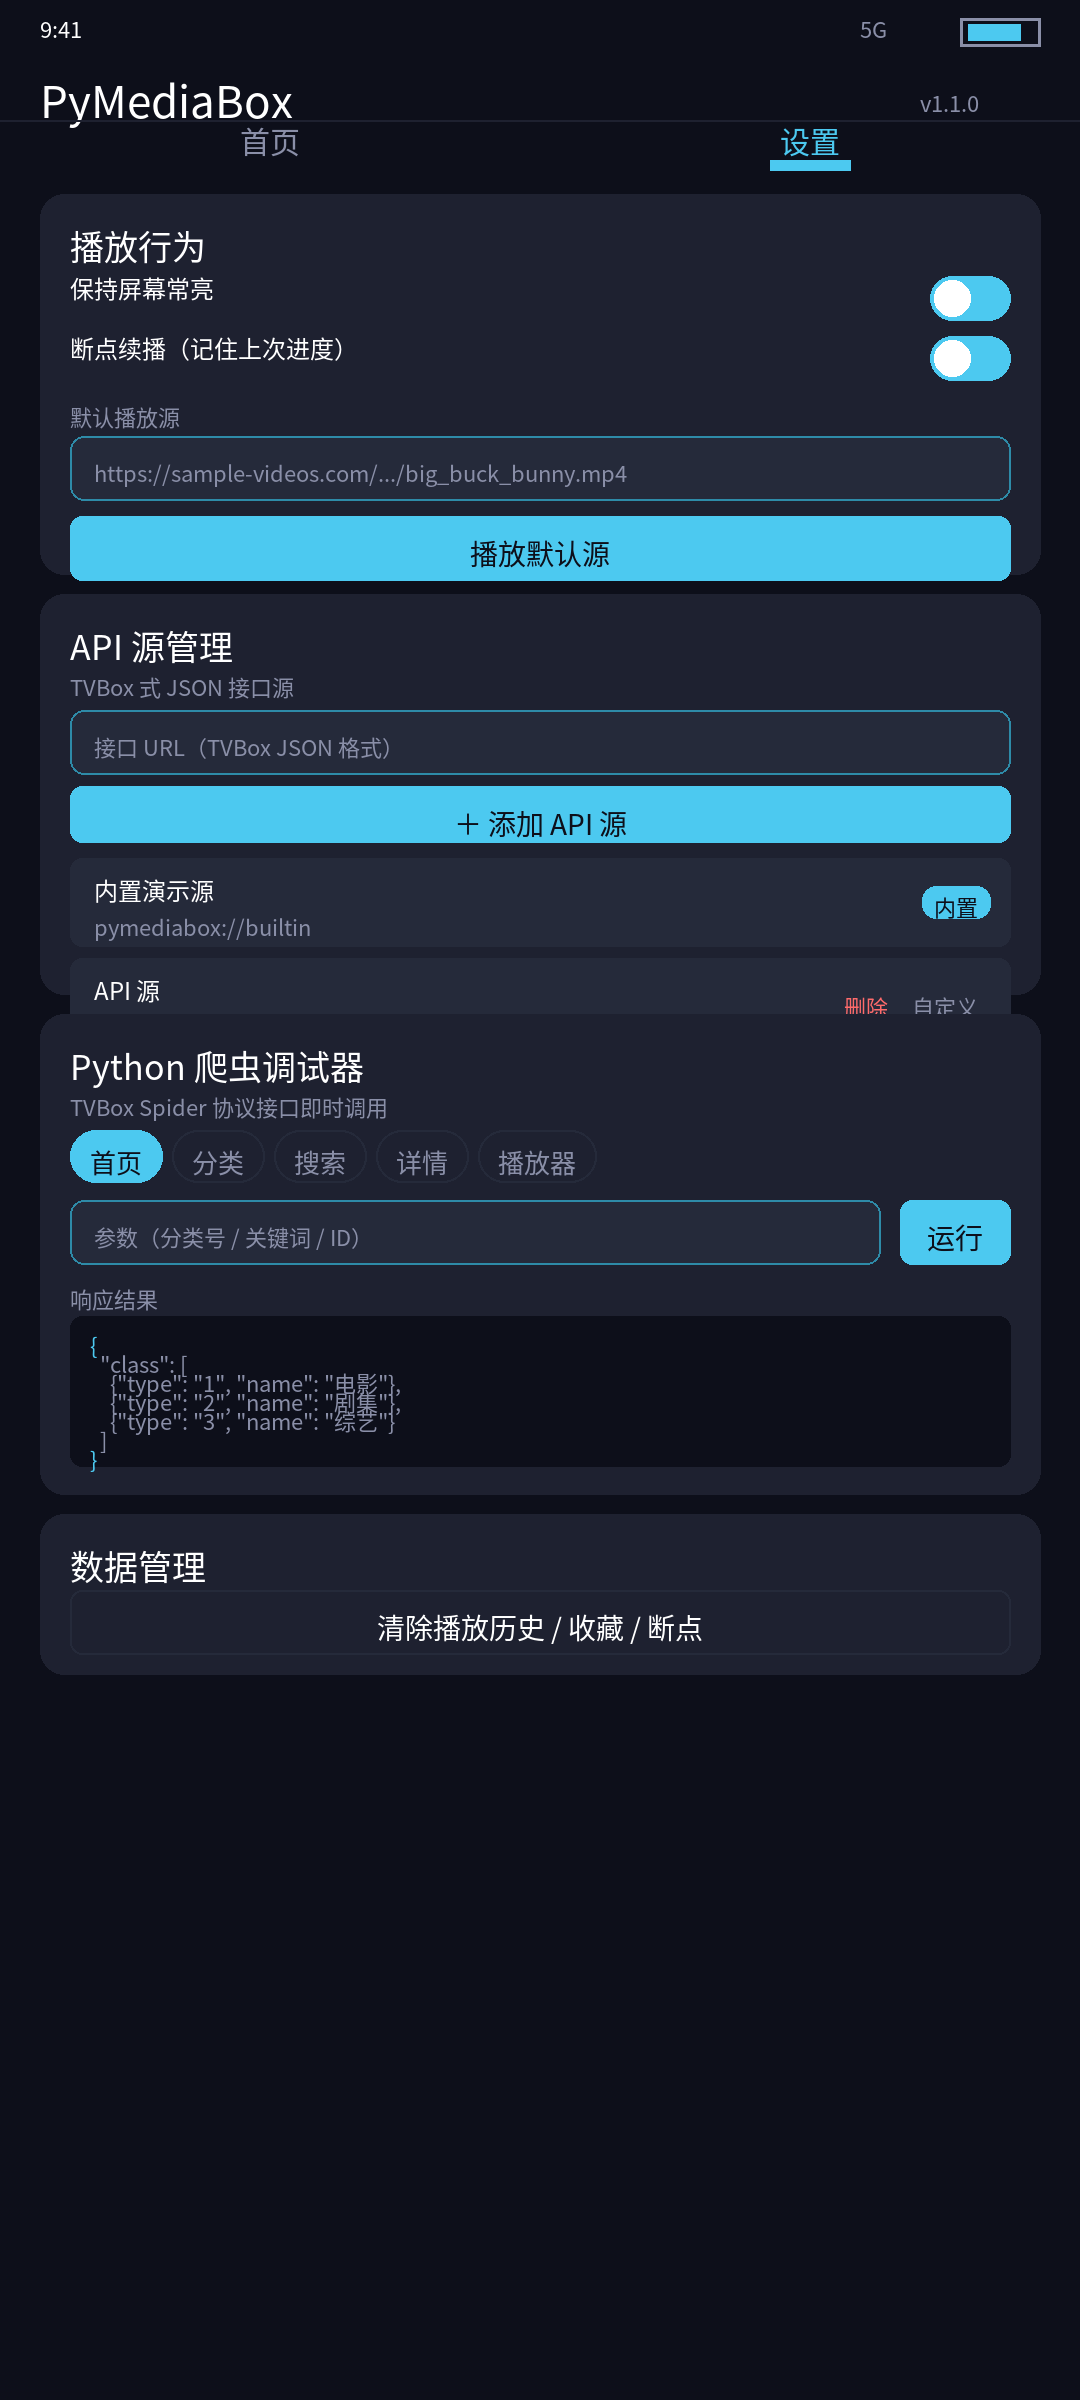
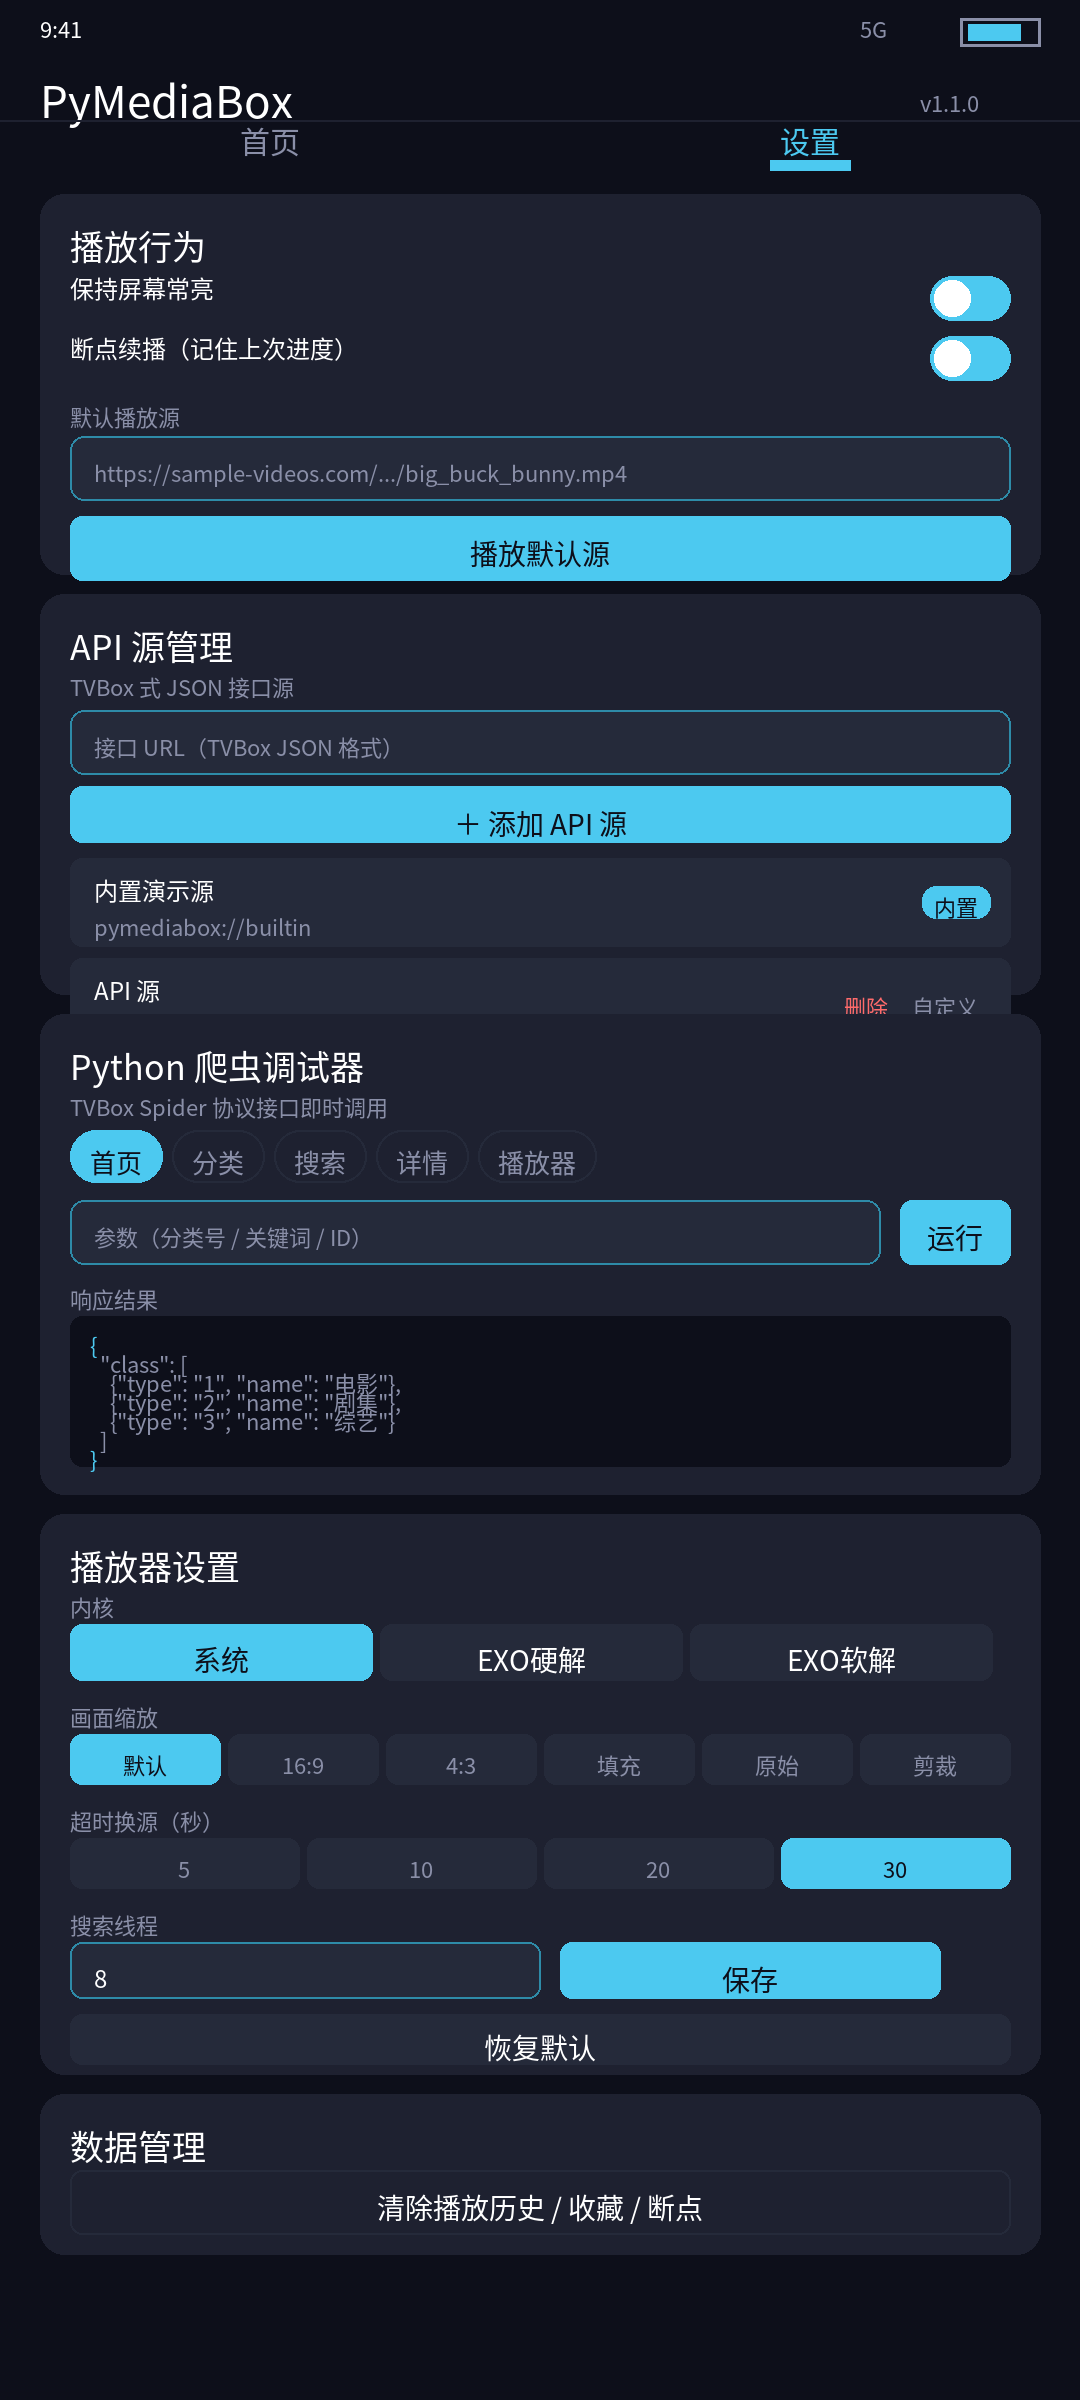
预览图更新：信息卡+收藏频道横排（首页）、播放器设置卡片（设置页）

Changed region(s): [[0.0611, 0.625, 0.9472, 0.9062], [0.3361, 0.9062, 0.6417, 0.9375]]

diff --git a/preview/gen_preview.py b/preview/gen_preview.py
@@ -128,6 +128,36 @@ def page_home():
     top = draw_top(d, 0)
     y = top + 24
 
+    # 视频区（黑底 + 信息卡）
+    d.rectangle((0, y, W, y + 300), fill=(0, 0, 0))
+    # 信息卡
+    rrect(d, (0, y + 210, W, y + 300), 0, CARD2)
+    # 频道图标
+    rrect(d, (28, y + 224, 100, y + 296), 14, CARD2)
+    d.text((52, y + 248), "📺", font=f_card_s, fill=ACCENT)
+    # 名称
+    d.text((118, y + 226), "频道名称", font=f_card_s, fill=WHITE)
+    d.text((118, y + 262), "收藏频道", font=f_small, fill=SECONDARY)
+    # 中间预告
+    pw = text_w("暂时没有播放预告", f_small)
+    d.text((W//2 - pw//2, y + 226), "暂时没有播放预告", font=f_small, fill=WHITE)
+    d.text((W//2 - pw//2, y + 262), "暂时没有播放预告", font=f_small, fill=SECONDARY)
+    # 集数 + 更多
+    d.text((W - 90, y + 226), "1", font=f_card_t, fill=WHITE)
+    d.text((W - 60, y + 220), "⋮", font=f_card_t, fill=WHITE)
+    y += 300 + 16
+
+    # 收藏频道横向卡片
+    chs = [("演示", ACCENT), ("央视", CARD2), ("电影", CARD2)]
+    cx = 24
+    for lab, c in chs:
+        rrect(d, (cx, y, cx + 120, y + 150), 14, CARD)
+        rrect(d, (cx, y, cx + 120, y + 100), 14, c)
+        d.text((cx + 44, y + 40), lab[0], font=f_card_t, fill=ACCENT)
+        d.text((cx + 12, y + 110), lab, font=f_small, fill=WHITE)
+        cx += 132
+    y += 150 + 16
+
     # 搜索栏
     rrect(d, (40, y, W - 40, y + 64), 16, CARD, outline=CARD2, width=2)
     icon_search(d, 80, y + 32, r=18, color=SECONDARY)
@@ -142,7 +172,7 @@ def page_home():
     y += 56 + 16
 
     # 分段筛选
-    seg_row(d, y, ["推荐", "历史", "收藏"], 0)
+    seg_row(d, y, ["推荐", "观看历史", "影视收藏"], 0)
     y += 56 + 24
 
     # 列表
@@ -253,12 +283,64 @@ def page_settings():
                fill=ACCENT if i in (0, 6) else SECONDARY)
     y += c3h + 20
 
-    # 卡片4 数据管理
-    c4h = 160
+    # 卡片4 播放器配置
+    c4h = 560
     card(d, 40, y, W - 80, c4h)
+    yy = card_title(d, 40, y, "播放器设置")
+    # 内核
+    d.text((70, yy), "内核", font=f_small, fill=SECONDARY)
+    yy += 34
+    kw = (W - 140 - 4*8) // 3
+    klabels = ["系统", "EXO硬解", "EXO软解"]
+    for i, kl in enumerate(klabels):
+        kx = 70 + i * (kw + 8)
+        sel = (i == 0)
+        rrect(d, (kx, yy, kx + kw, yy + 56), 12, ACCENT if sel else CARD2,
+              outline=None if sel else CARD2, width=0 if sel else 2)
+        d.text((kx + kw//2 - text_w(kl, f_btn)//2, yy + 14), kl, font=f_btn,
+               fill=BLACK if sel else WHITE)
+    yy += 56 + 20
+    # 画面缩放
+    d.text((70, yy), "画面缩放", font=f_small, fill=SECONDARY)
+    yy += 34
+    scales = ["默认", "16:9", "4:3", "填充", "原始", "剪裁"]
+    sw_ = (W - 140 - 5*8) // 6
+    for i, sc in enumerate(scales):
+        sx = 70 + i * (sw_ + 8)
+        sel = (i == 0)
+        rrect(d, (sx, yy, sx + sw_, yy + 50), 12, ACCENT if sel else CARD2)
+        d.text((sx + sw_//2 - text_w(sc, f_small)//2, yy + 14), sc, font=f_small,
+               fill=BLACK if sel else SECONDARY)
+    yy += 50 + 20
+    # 超时换源
+    d.text((70, yy), "超时换源（秒）", font=f_small, fill=SECONDARY)
+    yy += 34
+    touts = ["5", "10", "20", "30"]
+    tw_ = (W - 140 - 3*8) // 4
+    for i, t in enumerate(touts):
+        tx = 70 + i * (tw_ + 8)
+        sel = (i == 3)
+        rrect(d, (tx, yy, tx + tw_, yy + 50), 12, ACCENT if sel else CARD2)
+        d.text((tx + tw_//2 - text_w(t, f_small)//2, yy + 14), t, font=f_small,
+               fill=BLACK if sel else SECONDARY)
+    yy += 50 + 20
+    # 高级
+    d.text((70, yy), "搜索线程", font=f_small, fill=SECONDARY)
+    yy += 34
+    rrect(d, (70, yy, W//2, yy + 56), 12, CARD2, outline=ACCENT_DIM, width=2)
+    d.text((94, yy + 18), "8", font=f_card_s, fill=WHITE)
+    btn(d, W//2 + 20, yy, W - 140 - (W//2 + 20), "保存", h=56)
+    yy += 56 + 16
+    rrect(d, (70, yy, W - 70, yy + 50), 12, CARD2)
+    d.text((W//2 - text_w("恢复默认", f_btn)//2, yy + 12), "恢复默认", font=f_btn, fill=WHITE)
+    y += c4h + 20
+
+    # 卡片5 数据管理
+    c5h = 160
+    card(d, 40, y, W - 80, c5h)
     yy = card_title(d, 40, y, "数据管理")
     btn(d, 70, yy, W - 140, "清除播放历史 / 收藏 / 断点", primary=False)
-    y += c4h + 20
+    y += c5h + 20
 
     img.save(os.path.join(OUT, "02_settings.png"))
 
